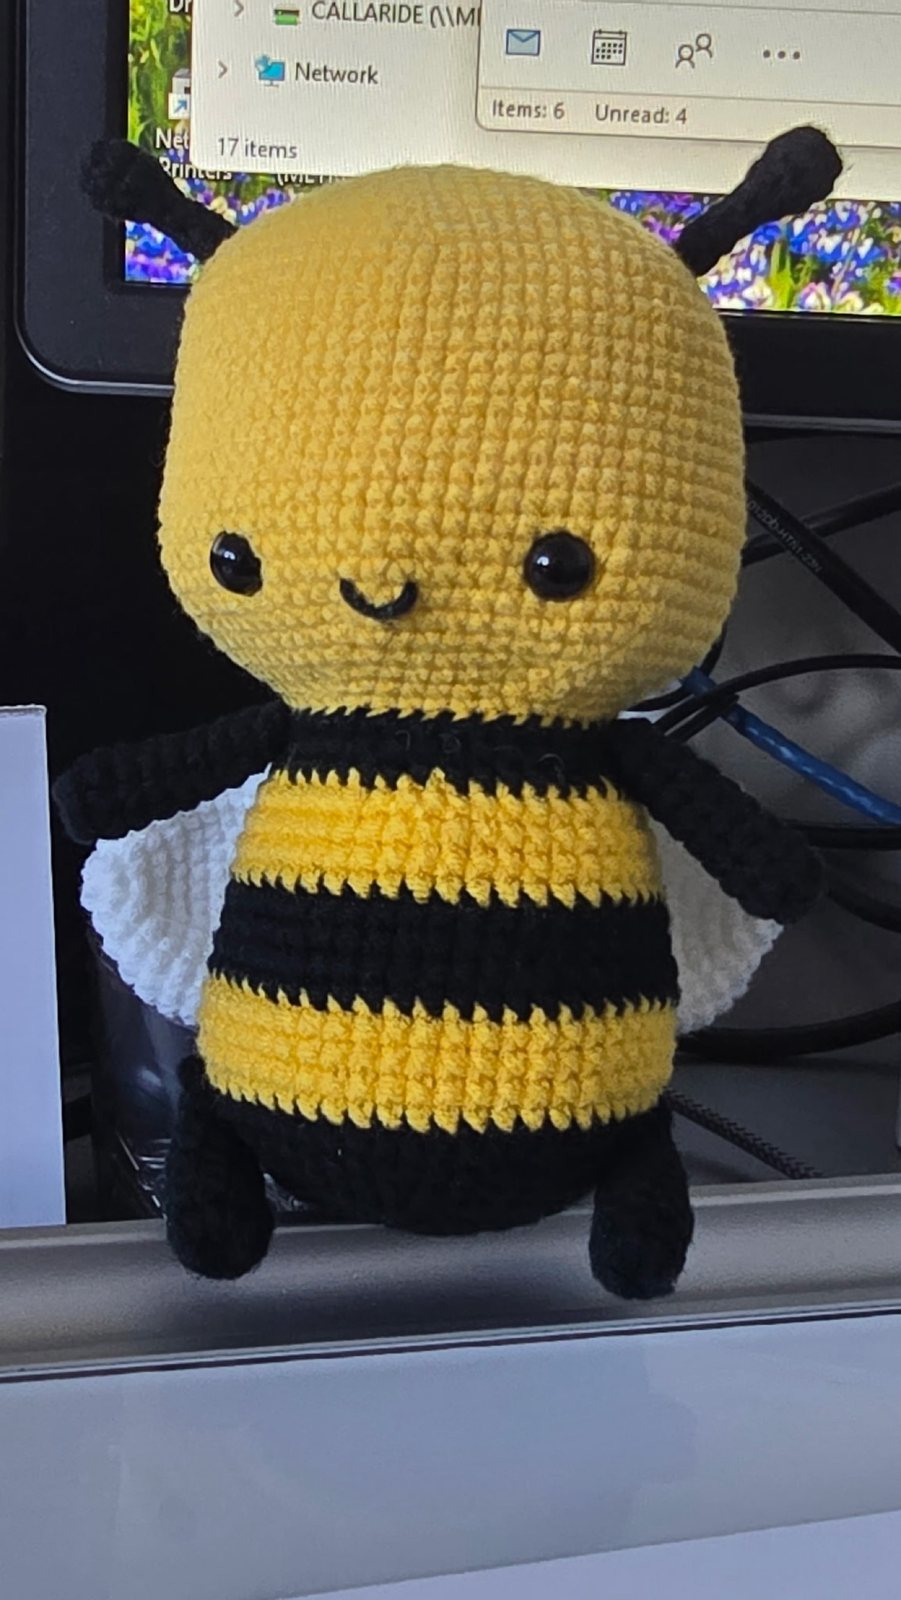
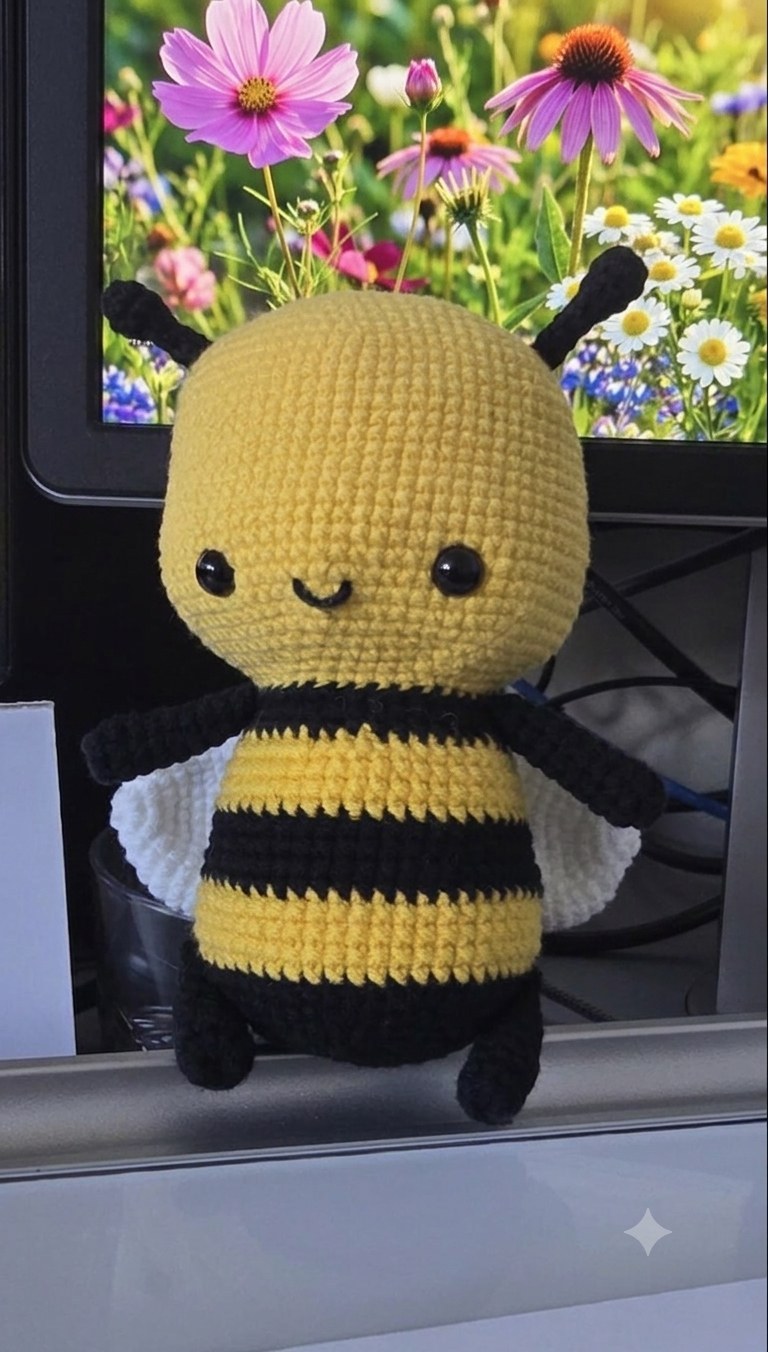
Swap Bumble Bee gallery photo for the new portrait

diff --git a/gallery/bumble-bee/index.html b/gallery/bumble-bee/index.html
@@ -4,17 +4,17 @@
   <meta charset="utf-8">
   <meta name="viewport" content="width=device-width, initial-scale=1">
   <title>Bumble Bee · Jiji’s Crochet Shop</title>
-  <meta name="description" content="A round yellow bee with tidy stripes and a little smile.">
+  <meta name="description" content="A sunny yellow bee with black stripes, white wings, and a little smile.">
   <meta name="theme-color" content="#F3EBE0">
   <link rel="canonical" href="https://jijiscrochetshop.com/gallery/bumble-bee/">
   <meta property="og:type" content="website">
   <meta property="og:title" content="Bumble Bee · Jiji’s Crochet Shop">
-  <meta property="og:description" content="A round yellow bee with tidy stripes and a little smile.">
+  <meta property="og:description" content="A sunny yellow bee with black stripes, white wings, and a little smile.">
   <meta property="og:url" content="https://jijiscrochetshop.com/gallery/bumble-bee/">
   <meta property="og:image" content="https://jijiscrochetshop.com/og.jpg">
   <meta name="twitter:card" content="summary_large_image">
   <meta name="twitter:title" content="Bumble Bee · Jiji’s Crochet Shop">
-  <meta name="twitter:description" content="A round yellow bee with tidy stripes and a little smile.">
+  <meta name="twitter:description" content="A sunny yellow bee with black stripes, white wings, and a little smile.">
   <meta name="twitter:image" content="https://jijiscrochetshop.com/og.jpg">
   <link rel="icon" type="image/svg+xml" href="/favicon.svg">
   <link rel="apple-touch-icon" href="/favicon.svg">
@@ -50,7 +50,7 @@
     <div>
       <p class="eyebrow">Critters</p>
       <h1>Bumble Bee</h1>
-      <p class="lede">Big head, tiny wings, black antennae. The kind of desk friend who makes a Monday feel less like a Monday.</p>
+      <p class="lede">Big round head, black antennae, and white wings tucked behind. She sits like she’s waiting on a flower.</p>
       <p class="details">Cotton amigurumi · seated</p>
       <p class="muted">Made to order · inquire for a custom version</p>
       <div class="actions">
